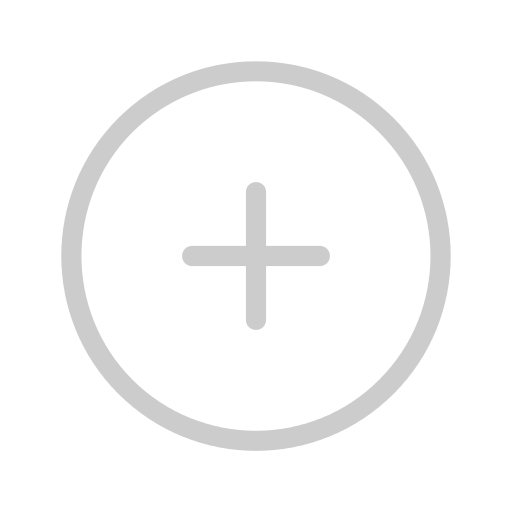
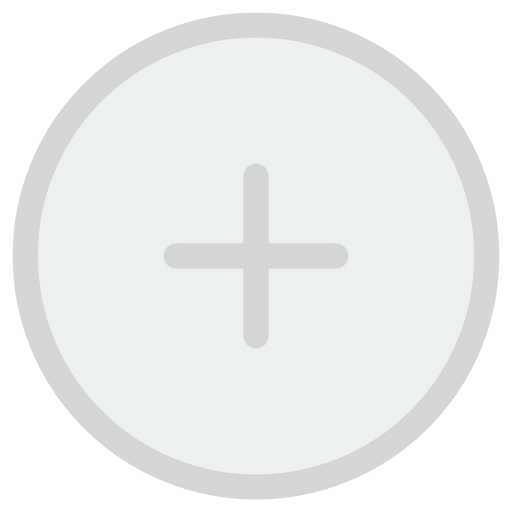
F

Changed region(s): [[0.0, 0.0, 1.0, 1.0], [0.3125, 0.3125, 0.6875, 0.6875]]

diff --git a/Admin_support_G_Inquiry.php b/Admin_support_G_Inquiry.php
@@ -332,7 +332,7 @@ help you at any time.</pre>
           <div class="chat-fields">
             <div class="chat-left-field">
               <a href="#" class="cht-lnk-optn"><img src="images/icon53.png" /></a>
-              <a href="#" class="cht-lnk-optn" id="ex-optn-open"><img src="images/recorder.png" /></a>
+              <a href="#" class="cht-lnk-optn" id="ex-optn-open"><img src="images/plus.png" /></a>
             </div>
             <div class="chat-text-field">
               <input type="text" placeholder="Type your Message" id="txt-chat-msg"  />
